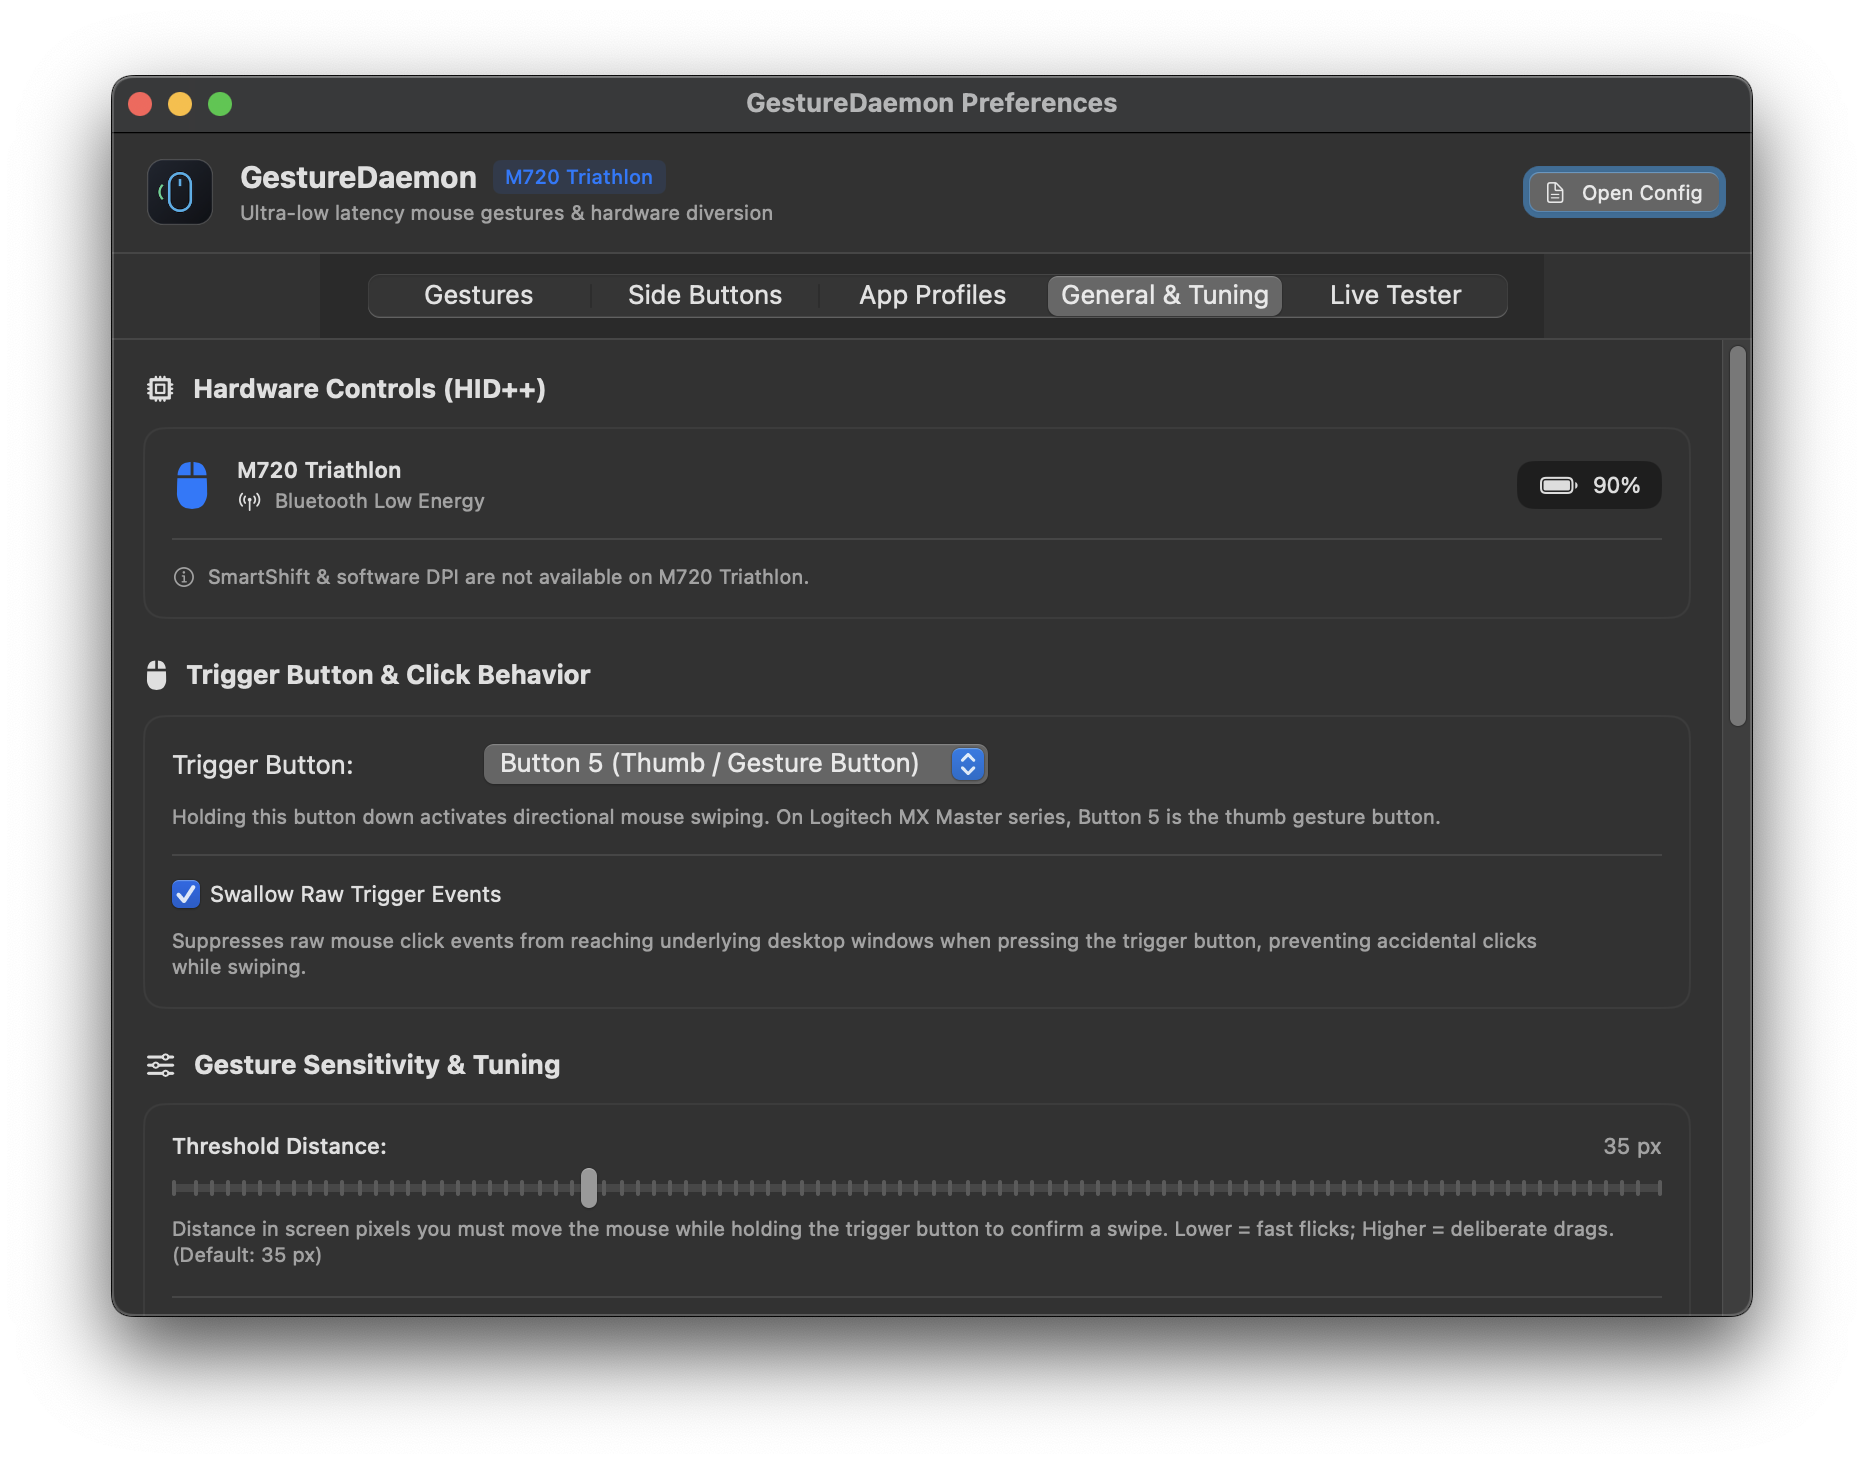
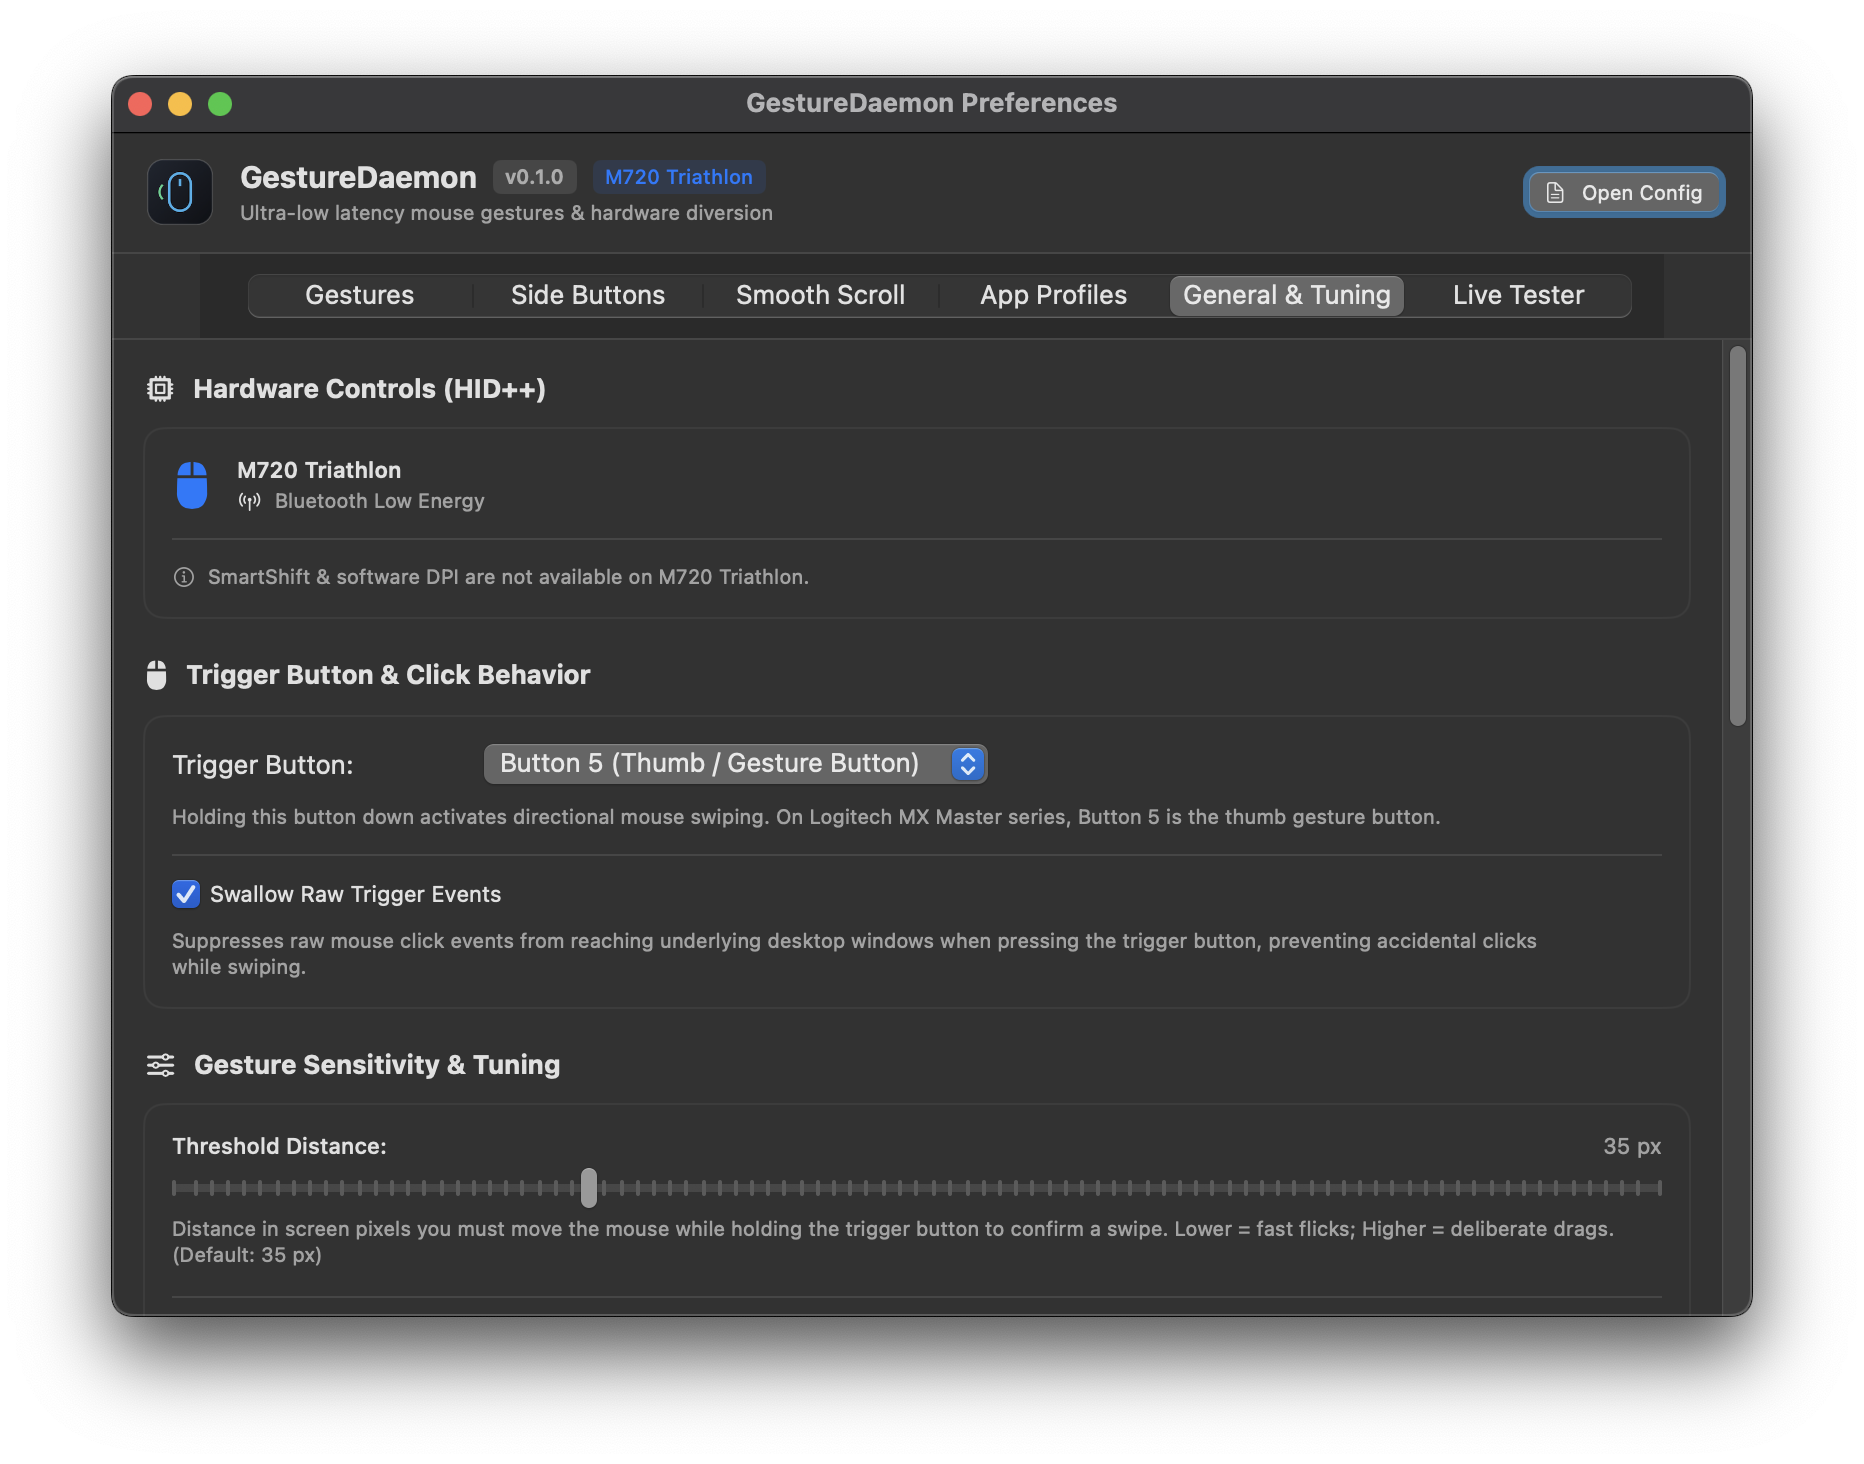
docs: update screenshots and add smooth scrolling tab to README

Changed region(s): [[0.1556, 0.1844, 0.8401, 0.2152], [0.28, 0.0922, 0.4045, 0.123], [0.809, 0.3074, 0.8712, 0.3381]]

diff --git a/README.md b/README.md
@@ -42,13 +42,17 @@ Proprietary mouse suites (such as Logitech Options+ / Logi G HUB) run multi-giga
 |:---:|:---:|
 | <img src="screenshots/menu.png" width="420" alt="Menu Bar & Battery Telemetry" /><br><sub>**Status Menu**: Instant battery percentage, charging indicator, pause toggle & quick settings</sub> | <img src="screenshots/gestures.png" width="420" alt="Gestures Configuration" /><br><sub>**Gestures Tab**: Directional flick triggers, Spaces switching & HUD volume chording</sub> |
 
-| Side Buttons Customization | App-Specific Profiles |
+| Smooth Scrolling Configuration | Side Buttons Customization |
 |:---:|:---:|
-| <img src="screenshots/side_buttons.png" width="420" alt="Side Buttons Customization" /><br><sub>**Side Buttons Tab**: Buttons 3 & 4 history navigation with interactive shortcut recorder</sub> | <img src="screenshots/app_profiles.png" width="420" alt="App Profiles" /><br><sub>**App Profiles Tab**: Context-aware gesture and button overrides for Safari, VS Code, etc.</sub> |
+| <img src="screenshots/smooth_scroll.png" width="420" alt="Smooth Scrolling Configuration" /><br><sub>**Smooth Scrolling Tab**: Inertia duration, speed multiplier, deadzone & trackpad phase simulation</sub> | <img src="screenshots/side_buttons.png" width="420" alt="Side Buttons Customization" /><br><sub>**Side Buttons Tab**: Buttons 3 & 4 history navigation with interactive shortcut recorder</sub> |
 
-| General Tuning & Sensitivity | Live Visual Calibration Canvas |
+| App-Specific Profiles | General Tuning & Sensitivity |
 |:---:|:---:|
-| <img src="screenshots/general.png" width="420" alt="General Settings & Tuning" /><br><sub>**General Tuning**: Sub-pixel sensitivity, deadzone, timing window & icon styles</sub> | <img src="screenshots/live_tester.png" width="420" alt="Live Calibration Tester Canvas" /><br><sub>**Live Tester Canvas**: Real-time cursor displacement vectors, threshold rings & live gesture detection</sub> |
+| <img src="screenshots/app_profiles.png" width="420" alt="App Profiles" /><br><sub>**App Profiles Tab**: Context-aware gesture, button, and smooth scroll overrides per application</sub> | <img src="screenshots/general.png" width="420" alt="General Settings & Tuning" /><br><sub>**General Tuning**: Sub-pixel sensitivity, deadzone, timing window & icon styles</sub> |
+
+| Live Visual Calibration Canvas |
+|:---:|
+| <img src="screenshots/live_tester.png" width="560" alt="Live Calibration Tester Canvas" /><br><sub>**Live Tester Canvas**: Real-time cursor displacement vectors, threshold rings & live gesture detection</sub> |
 
 ---
 
